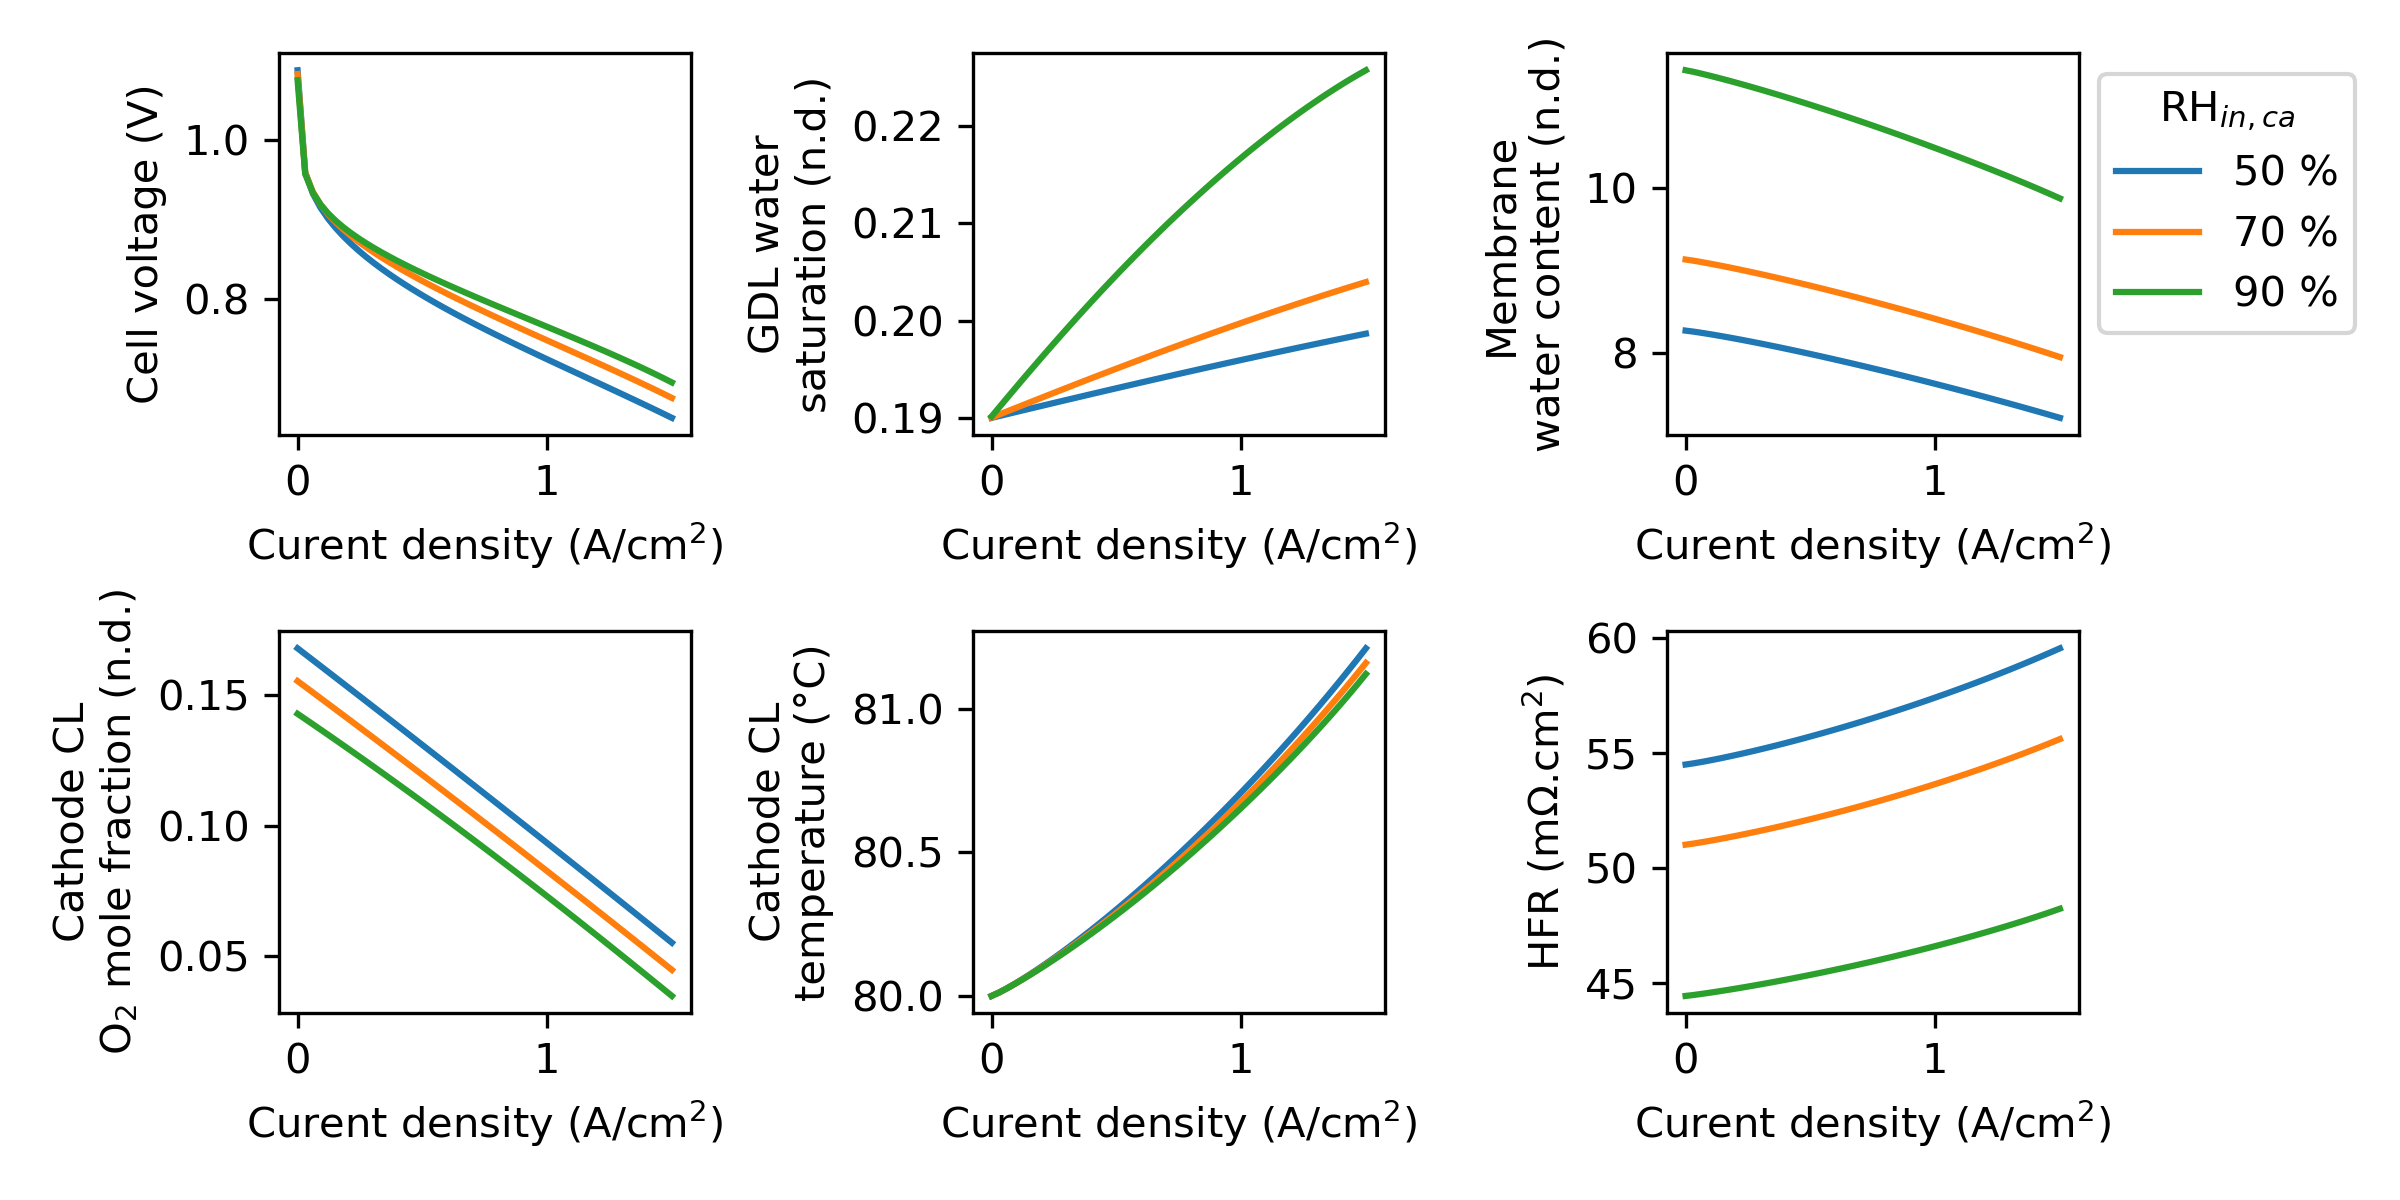
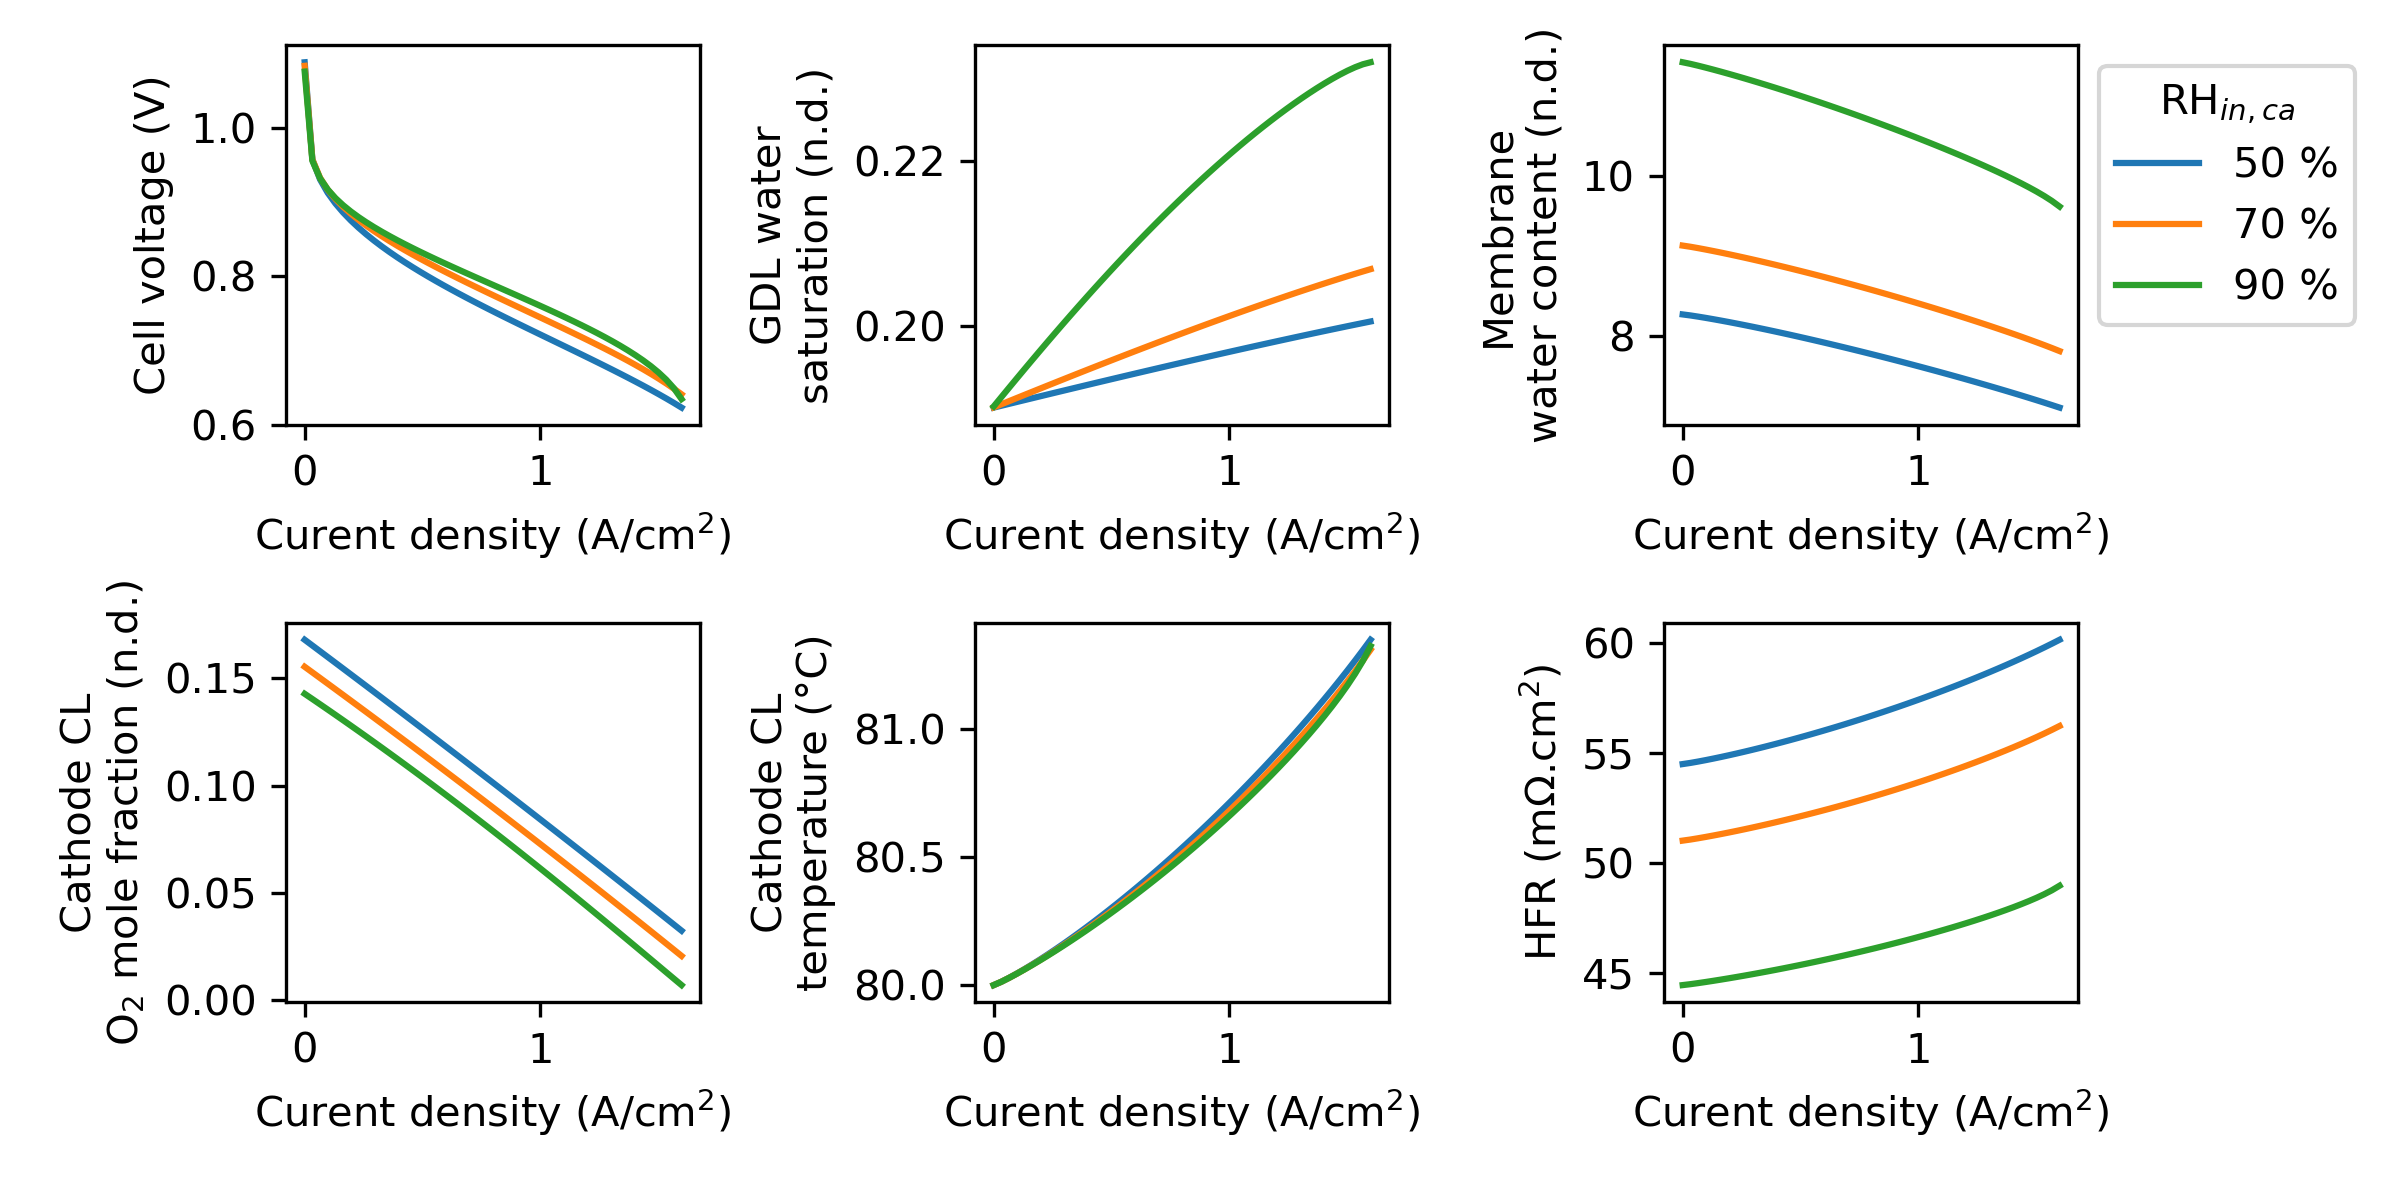
Changed default membrane absorption coefficient.

diff --git a/src/coulomb/membrane.py b/src/coulomb/membrane.py
@@ -172,7 +172,7 @@ class MembraneWaterBalanceModel:
     # This assumption tends to overestimate water diffusivity and therefore backdiffusion for 
     # dry membranes. 
     gamma_function_ferrara: float = 0.2 
-    absorption_coefficient: float = 3e-4
+    absorption_coefficient: float = 0.9e-3
                                 
 
     def wet_chemical_diffusion_coefficient(self, temperature):
@@ -189,53 +189,51 @@ class MembraneWaterBalanceModel:
     def electroosmotic_drag_speed(self, temperature, current_density, membrane):
         return (0.02 * temperature - 3.86) / 22.5 * current_density / ct.faraday / membrane.dry_concentration
     
-    def peclet_number(self, temperature, current_density, membrane):
-        return self.electroosmotic_drag_speed(temperature, current_density, membrane) * membrane.dry_thickness / self.water_diffusivity(temperature)
+    def peclet_number(self, temperature, current_density, membrane, water_diffusivity):
+        return self.electroosmotic_drag_speed(temperature, current_density, membrane) * membrane.dry_thickness / water_diffusivity
     
-    def biot_number(self, absorption_coefficient, temperature, membrane):
-        return absorption_coefficient * membrane.dry_thickness / self.water_diffusivity(temperature)
+    def biot_number(self, absorption_coefficient, membrane, water_diffusivity):
+        return absorption_coefficient * membrane.dry_thickness / water_diffusivity
 
     def water_balance(self, cell):
-        k_v = 5e-3
-        k_int = self.absorption_coefficient 
-        self.k_v_int = k_v * k_int / (k_v + k_int)
+
+        water_diffusivity = self.water_diffusivity(cell.membrane.temperature)
+        bi = self.biot_number(self.absorption_coefficient, cell.membrane, water_diffusivity)
+        pe = self.peclet_number(cell.membrane.temperature, cell.current_density, cell.membrane, water_diffusivity)
+        ePe = np.exp(pe)      
 
         for side in (cell.ca, cell.an):
-            side.rh_at_cl_without_crossover = (side.ch.gas.vapor_pressure() / side.cl.gas.saturation_pressure +
-                                               (cell.current_density / (2*ct.faraday) / k_v if side == cell.ca else 0))
-            side.ch.equiv_water_content = cell.membrane.equilibrium_water_content(
+            c_sat_cl = side.cl.get_saturation_concentration()
+            side.rh_at_cl_without_crossover = (side.ch.get_species_concentrations('h2o') +
+                                               (cell.current_density / (2*ct.faraday) * side.h2ov_transport_resistance  if side == cell.ca else 0)) / c_sat_cl
+            side.equiv_water_content = cell.membrane.equilibrium_water_content(
                 side.rh_at_cl_without_crossover
             )
-            side.membrane_interface_water_content_derivative = cell.membrane.equilibrium_water_content_derivative(
+            side.equiv_water_content_derivative = cell.membrane.equilibrium_water_content_derivative(
                 side.rh_at_cl_without_crossover
             )
-            side.membrane_absorption_coefficient_lmbd = (self.k_v_int / 
-                                                         cell.membrane.equilibrium_water_content_derivative(side.rh_at_cl_without_crossover))
+
+            side.non_dim_R_v = (side.h2ov_transport_resistance / c_sat_cl *
+                                                   water_diffusivity / cell.membrane.dry_thickness * side.equiv_water_content_derivative)
             
-            side.membrane_biot_number =  (1 if side == cell.ca else -1) * self.biot_number(
-                side.membrane_absorption_coefficient_lmbd,
-                cell.membrane.temperature,
-                cell.membrane
-            )
-        u_d = self.electroosmotic_drag_speed(cell.membrane.temperature, cell.current_density, cell.membrane)
-        nondim_vapor_transport_resistance = u_d / k_v / water_saturation_concentration(cell.membrane.temperature)
-        cell.membrane.peclet = self.peclet_number(cell.membrane.temperature, cell.current_density, cell.membrane)
+            side.K = bi / (side.equiv_water_content_derivative + bi * side.non_dim_R_v)
+            side.a = (1 + side.non_dim_R_v * (pe if side == cell.an else -pe))
+
+        denom = (cell.ca.K * cell.ca.a + cell.an.K * cell.an.a * ePe) * pe + cell.ca.K * cell.ca.a * cell.an.K * cell.an.a * (ePe - 1)
+        lmbd_ca = 1 / cell.ca.a * (cell.ca.equiv_water_content + pe * ePe * cell.an.K * (cell.ca.a * cell.an.equiv_water_content - cell.an.a * cell.ca.equiv_water_content) / denom)
+        lmbd_an = 1 / cell.an.a * (cell.an.equiv_water_content - pe * cell.ca.K * (cell.ca.a * cell.an.equiv_water_content - cell.an.a * cell.ca.equiv_water_content) / denom)
+        
         xi = np.linspace(0,np.ones_like(cell.current_density),10)
         
-        self.water_content_profile = membrane_water_profile(xi,
-                               cell.ca.ch.equiv_water_content,
-                               cell.an.ch.equiv_water_content,
-                               nondim_vapor_transport_resistance,
-                               cell.an.membrane_biot_number,
-                               cell.ca.membrane_biot_number,
-                               cell.membrane.peclet)
+        self.water_content_profile = (lmbd_ca - lmbd_an) * np.expm1(xi * pe) / (ePe - 1) + lmbd_an
+
         cell.membrane.water_content = np.mean(self.water_content_profile, axis=0)
         return self.water_content_profile
     
     def cathode_absorption_flux(self, cell): 
         lmbd_ca = self.water_content_profile[-1,:]
-        return (cell.ca.membrane_absorption_coefficient_lmbd * (cell.ca.ch.equiv_water_content - lmbd_ca) +
-                -self.electroosmotic_drag_speed(cell.membrane.temperature, cell.current_density, cell.membrane) * lmbd_ca * self.k_v_int / self.absorption_coefficient) * cell.membrane.dry_concentration
+        return (self.absorption_coefficient * (cell.ca.equiv_water_content - lmbd_ca) / cell.ca.equiv_water_content_derivative
+                +self.electroosmotic_drag_speed(cell.membrane.temperature, cell.current_density, cell.membrane) * lmbd_ca)
 
 @dataclass
 class SimpleMembraneWaterBalanceModel(MembraneWaterBalanceModel): 
@@ -258,43 +256,6 @@ class PemfminesMembraneWaterBalanceModel(MembraneWaterBalanceModel):
             side.membrane_surface_water_content = cell.membrane.equilibrium_water_content(side.rh_at_cl_without_crossover)
         cell.membrane.water_content = 0.5 * sum(side.membrane_surface_water_content for side in (cell.ca, cell.an))
 
-
-def membrane_water_profile(xi, equiv_lmbd_ca_ch, equiv_lmbd_an_ch, k_v, biot_an, biot_ca, peclet):
-    """
-    Calculate membrane water profile for constant water absorption and diffusivity coefficients.
-    Based on the work of Ferrara et al. (2018), with an extension to consider interface resitances 
-    (Biot numbers for cathode and anode) and vapor transport resistance between the channel and the
-    catalyst layer.     
-
-    Parameters:
-    -----------
-    xi : float
-        Non-dimensinal membrane thickness, between 0 (anode) and 1 (cathode). 
-    equiv_lmbd_ca_ch : float
-        Equivalent membrane water content corresponding to the RH at
-        the cathode channel calculated at the catalyst layer temperature.
-    equiv_lmbd_ca_ch : float
-        Equivalent membrane water content corresponding to the RH at
-        the anode channel calculated at the catalyst layer temperature.
-    k_v : float
-        Non-dimensional vapor transport resistance. 
-    biot_ca : float
-        Biot number relating water absorption/desorption at the cathode 
-        side and diffusion in the bulk membrane. 
-    biot_an : float
-        Biot number relating water absorption/desorption at the cathode 
-        side and diffusion in the bulk membrane.
-    peclet : float
-        Peclet number relating electroosmotic drag to water diffusion.
-    """
-    exp_peclet = np.exp(peclet)
-
-    A = np.exp(peclet * xi) + peclet/biot_an - 1
-    B = peclet/biot_ca*exp_peclet + peclet/biot_an + (1+k_v)*(exp_peclet-1)
-    C = (1-k_v)*peclet/biot_ca*exp_peclet + (1+k_v)*peclet/biot_an + (1-k_v**2)*(exp_peclet-1)
-
-    return (A * (equiv_lmbd_ca_ch - equiv_lmbd_an_ch) + equiv_lmbd_an_ch * B)/C
-    
 
 @dataclass
 class Membrane: